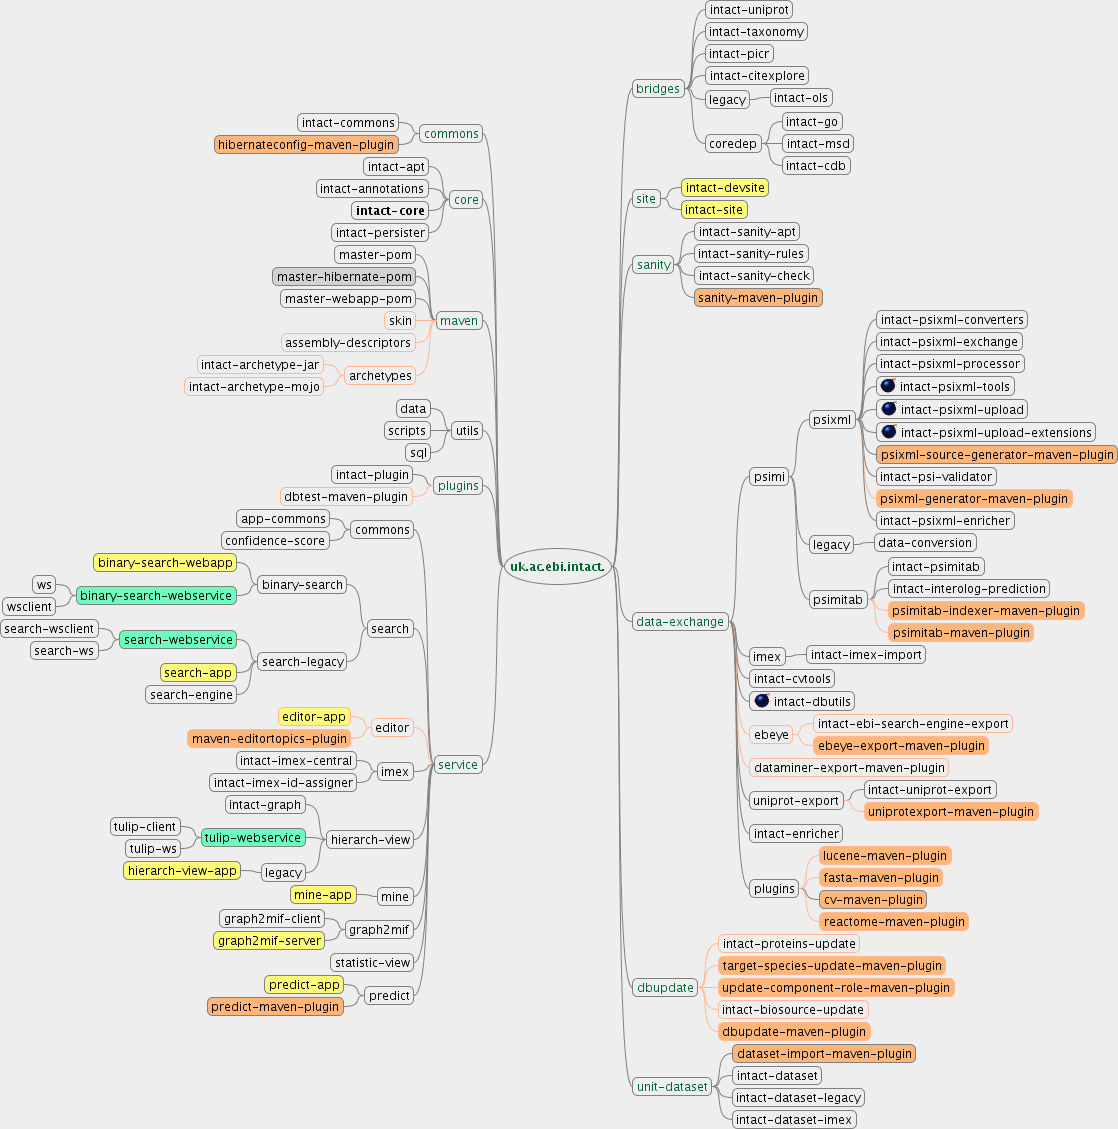
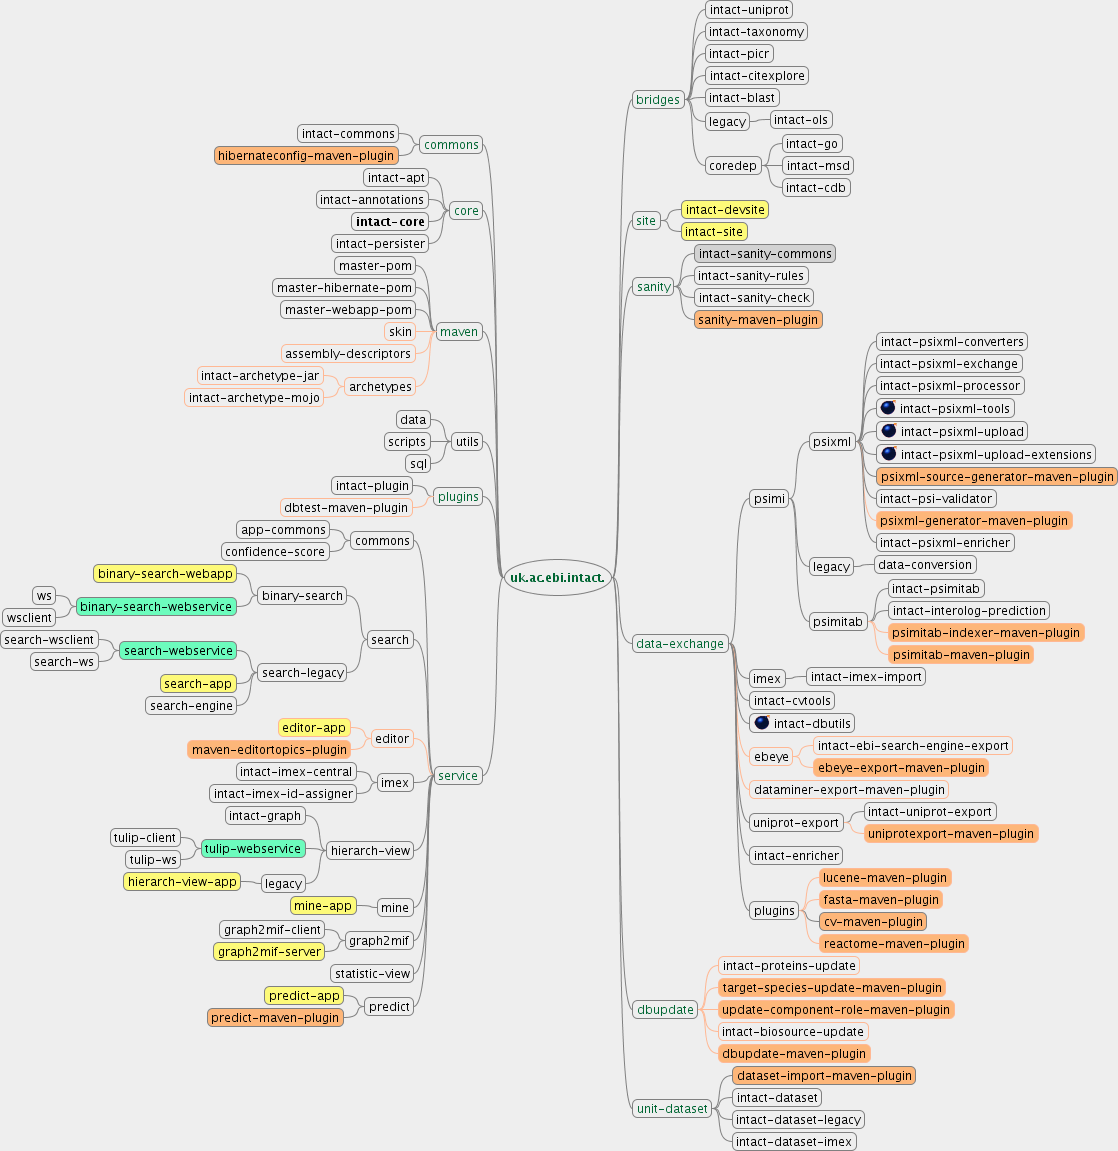
Updated map

diff --git a/repo/current/intact-modules.mm b/repo/current/intact-modules.mm
@@ -14,6 +14,7 @@
 </node>
 <node CREATED="1184856102864" ID="Freemind_Link_1600959279" MODIFIED="1184856106709" TEXT="intact-picr"/>
 <node CREATED="1185528168392" ID="Freemind_Link_1577258806" MODIFIED="1185528172685" TEXT="intact-citexplore"/>
+<node CREATED="1187862054656" ID="Freemind_Link_899460905" MODIFIED="1187862061258" TEXT="intact-blast"/>
 <node CREATED="1184856095206" ID="Freemind_Link_187827585" MODIFIED="1184856098312" TEXT="legacy">
 <node CREATED="1181219890339" ID="Freemind_Link_991036459" MODIFIED="1184856130649" TEXT="intact-ols">
 <edge COLOR="#808080" WIDTH="thin"/>
@@ -45,7 +46,7 @@
 </node>
 <node COLOR="#006633" CREATED="1181228864110" ID="Freemind_Link_1539915686" MODIFIED="1181231528235" POSITION="right" TEXT="sanity">
 <font NAME="SansSerif" SIZE="12"/>
-<node CREATED="1181219903504" ID="Freemind_Link_1337513036" MODIFIED="1187354031925" TEXT="intact-sanity-apt">
+<node CREATED="1181219903504" ID="Freemind_Link_1337513036" MODIFIED="1187862076725" TEXT="intact-sanity-commons">
 <edge COLOR="#808080" WIDTH="thin"/>
 <font NAME="SansSerif" SIZE="12"/>
 </node>
